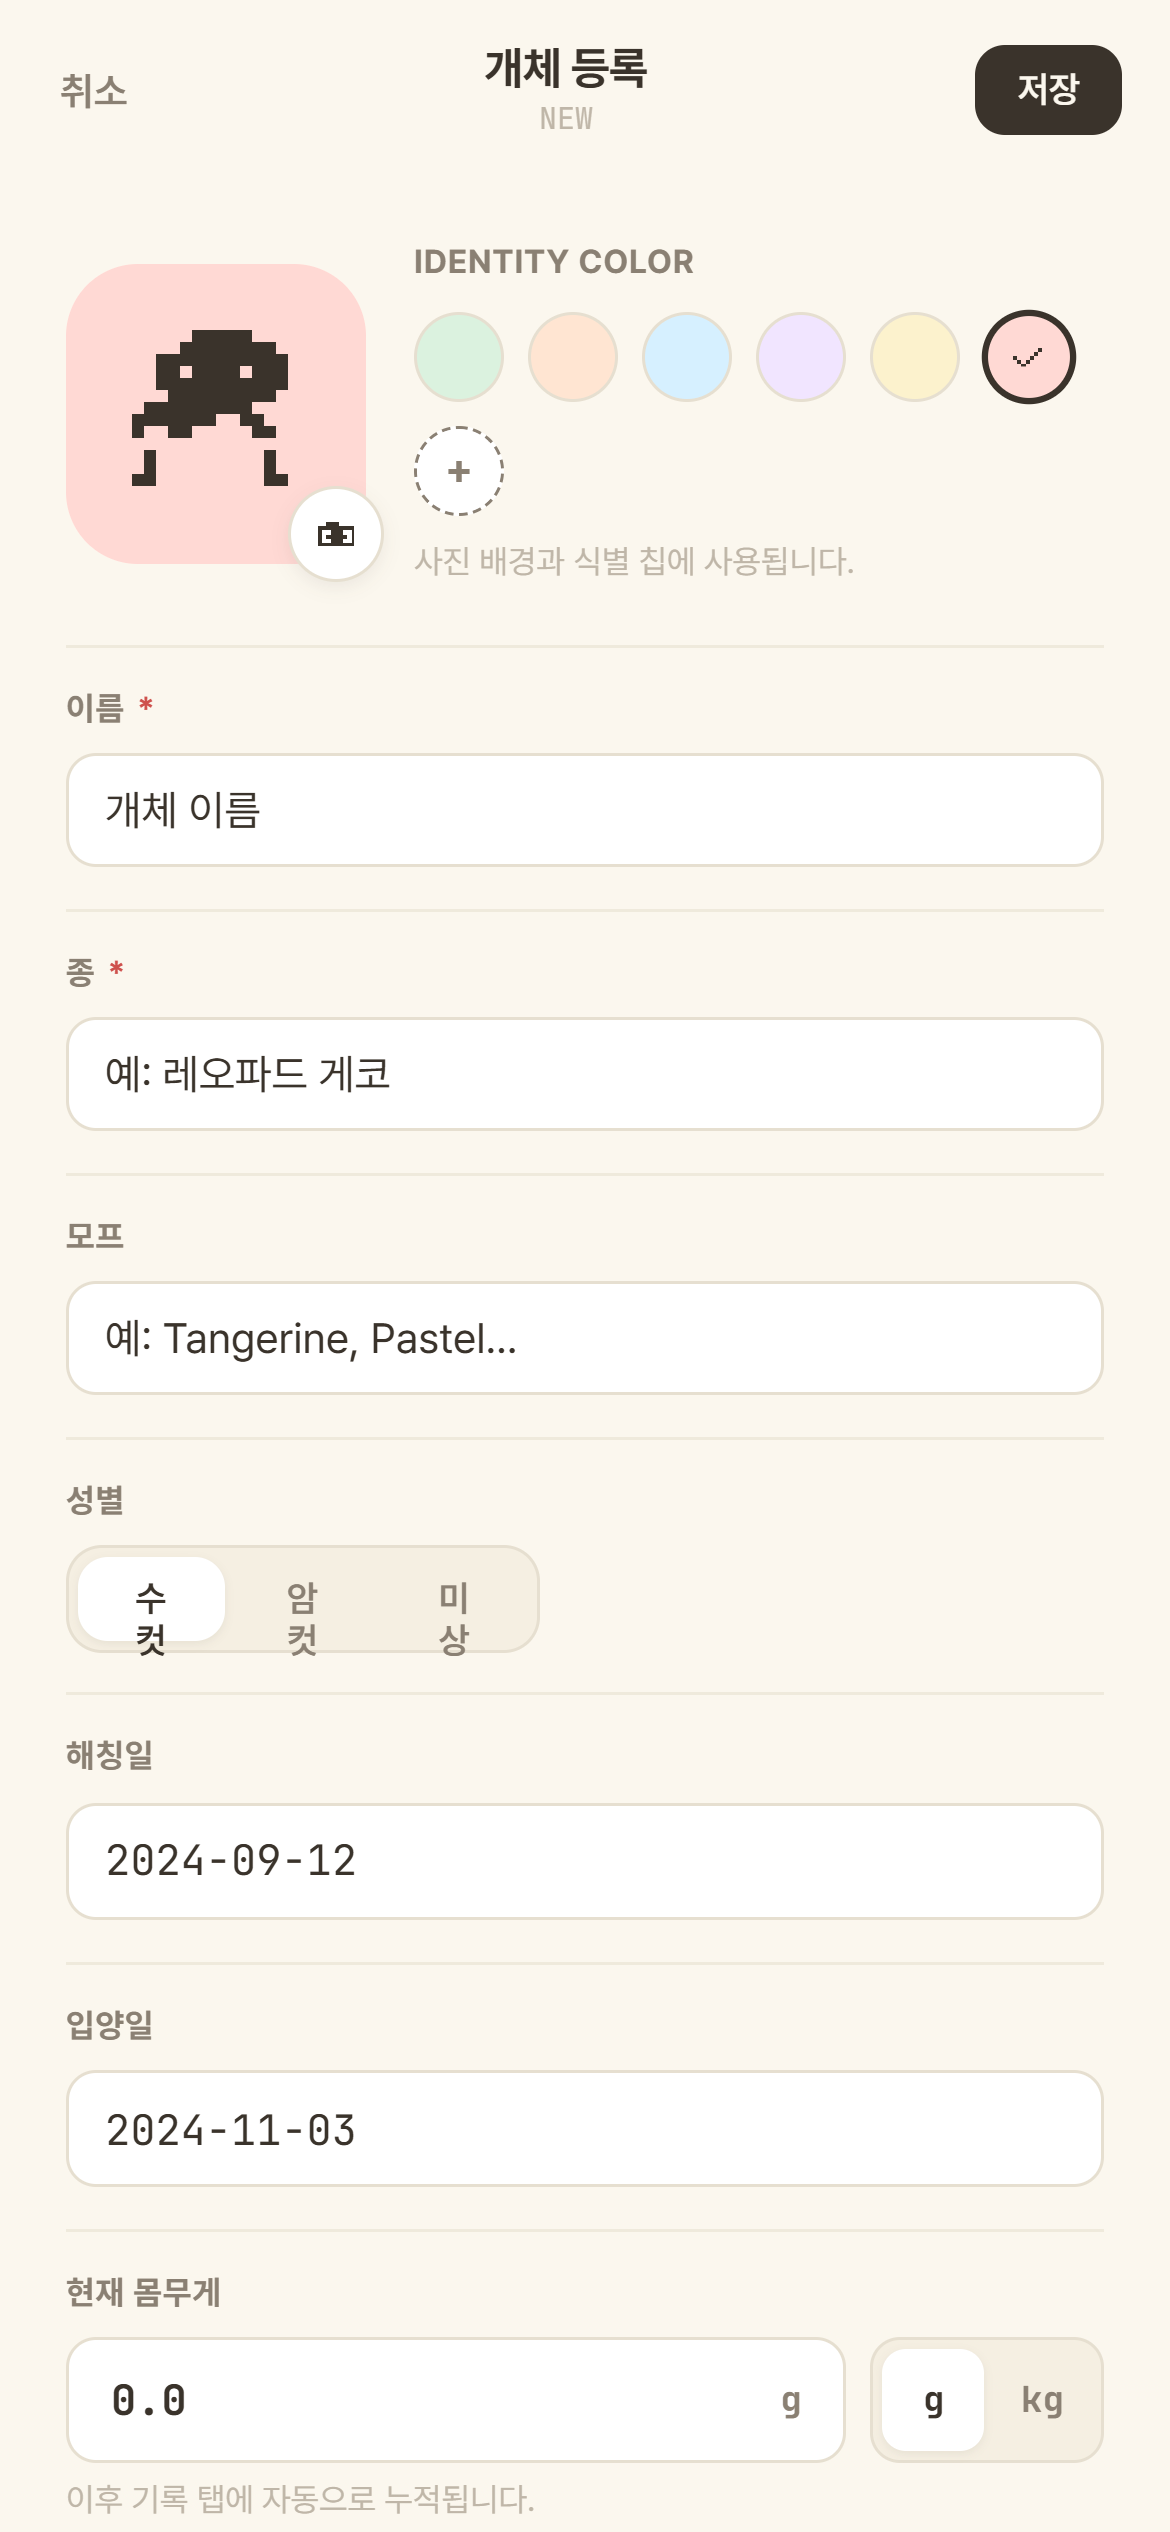
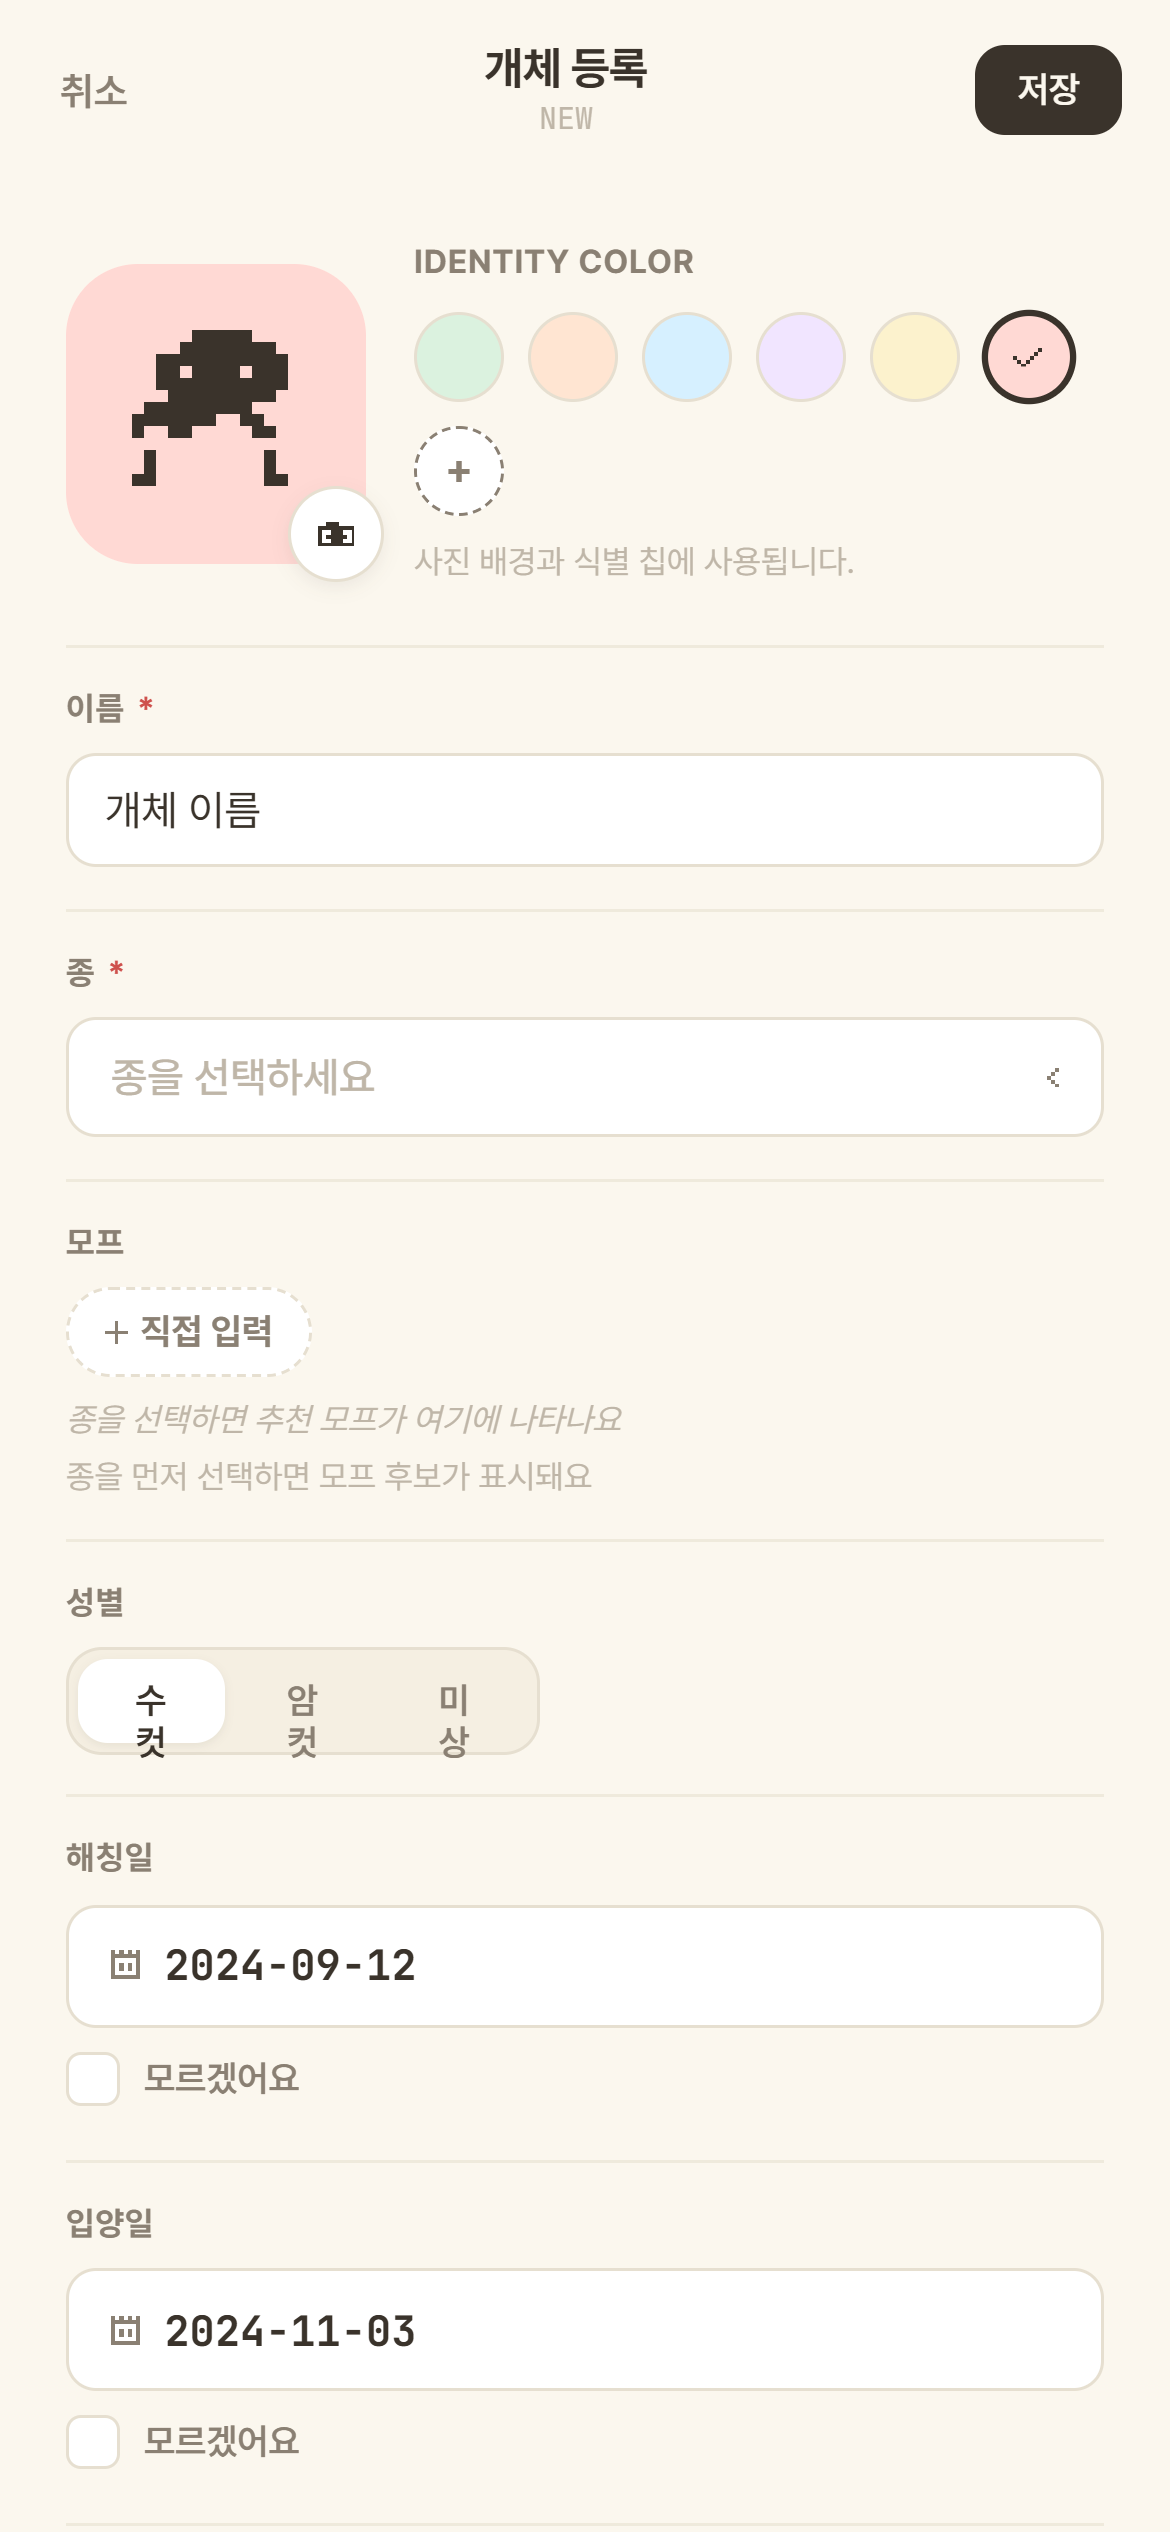
chore: 미커밋 변경사항 일괄 반영
- UI/03.png, 03b.png, 03c.png, 03d.png: UI 레퍼런스 이미지 추가
- UI/reference.md: UI 명세 업데이트
- V15__memo_restructure.sql: sync 컬럼 중복 추가 제거 수정본
- PhotoController.java: setProfile 중복 엔드포인트 제거
- application-local.yml: HTTP 요청 로그 설정 추가
- signup_screen.dart: 에러 메시지 한국어 처리

diff --git a/bitpet_app/lib/features/auth/presentation/signup_screen.dart b/bitpet_app/lib/features/auth/presentation/signup_screen.dart
@@ -74,7 +74,7 @@ class _SignupScreenState extends ConsumerState<SignupScreen> {
     );
     if (!mounted) return;
     ref.read(authStateProvider).whenOrNull(
-      error: (e, _) => ToastMessage.show(context, '에러입니다', type: ToastType.error),
+      error: (e, _) => ToastMessage.show(context, e.toString(), type: ToastType.error),
     );
   }
 

diff --git a/bitpet_server/src/main/java/io/bitpet/photo/controller/PhotoController.java b/bitpet_server/src/main/java/io/bitpet/photo/controller/PhotoController.java
@@ -72,12 +72,4 @@ public class PhotoController {
         return ApiResponse.ok();
     }
 
-    @Operation(summary = "개체 프로필 사진 설정 (PET 한정)")
-    @PatchMapping("/api/v1/pets/{petId}/photos/{photoId}/profile")
-    public ApiResponse<PhotoResponse> setProfile(
-            @AuthenticationPrincipal AuthPrincipal principal,
-            @PathVariable Long petId,
-            @PathVariable Long photoId) {
-        return ApiResponse.ok(photoService.setProfilePhoto(principal.userId(), petId, photoId));
-    }
 }

diff --git a/UI/reference.md b/UI/reference.md
@@ -60,3 +60,85 @@
 * 홈 화면 루틴 카드에서 넘어온 경우 뒤로 버튼과 닫기 버튼은 생략. FAB 버튼을 통해 넘어온 경우 뒤로 버튼(개체선택으로 되돌아감.  완료 및 저장된 개체를 선택 해제할 경우 해당 내용 초기화)
 * 닫기 버튼
 
+---
+
+# 2026-05-27 UI가이드
+
+## 1. 개체 등록 메인 화면 (03.png, 03b.png)
+
+새로운 개체를 시스템에 등록하기 위한 입력 폼 화면입니다. 전체적으로 따뜻한 아이보리, 샌드톤 배경에 둥근 모서리의 입력 필드들이 배치되어 있습니다.
+
+* **상단 헤더:**
+* 좌측에 취소 버튼: 클릭시 저장 안되고 뒤로가기, 중앙에 **'개체 등록 (NEW)'** 타이틀, 우측에 어두운 브라운 색상의 **'저장'** 버튼이 있습니다. 저장버튼 클릭 시 개체 정보 DB에 저장. 디바이스 자체 저장소에도 동시에 저장됨.
+
+* **프로필 사진 및 아이덴티티 컬러 설정:**
+* **프로필 이미지:** 핑크색 사각형 배경에 픽셀 아트 형태의 도마뱀(혹은 외계인 형태의 캐릭터) 아이콘이 기본 적용되어 있으며, 우측 하단에 카메라 모양의 플로팅 버튼 클릭 시 사진 선택 가능
+* **IDENTITY COLOR:** 민트, 연주황, 연하늘, 연보라, 연노랑, 인디핑크색의 원형 칩이 나열되어 있으며 현재 인디핑크 색상이 선택(체크 표시)되어 있습니다. 우측의 `+` 버튼은 생략. 하단에 "사진 배경과 식별 칩에 사용됩니다."라는 안내 문구가 있습니다.
+
+
+* **입력 필드 레이아웃:**
+* **이름 *** (필수): '개체 이름'을 입력할 수 있는 텍스트 필드입니다.
+* **종 *** (필수): '종을 선택하세요'라는 안내와 함께 우측에 드롭다운/바텀시트 호출을 암시하는 화살표 아이콘이 있습니다. (03c화면으로 연결되는 지점)
+* **모프:** 직접 입력할 수 있는 버튼(`+ 직접 입력`)이 있으며, 하단에 "종을 선택하면 추천 모프가 여기에 나타나요", "종을 먼저 선택하면 모프 후보가 표시돼요"라는 안내 문구가 비활성화 톤으로 적혀 있습니다.
+* **성별:** '수컷', '암컷', '미상'의 3단 토글 스위치 형태이며, 현재 '수컷'이 선택되어 배경이 하얗게 강조되어 있습니다.
+* **해칭일 (부화일):** 달력 아이콘과 함께 날짜를 선택할 수 있는 입력창이 있으며, 아래에 '모르겠어요' 체크박스가 있습니다.
+* **입양일:** 달력 아이콘과 함께 날짜를 선택할 수 있는 입력창이 있으며, 아래에 '모르겠어요' 체크박스가 있습니다.
+네, 이전 '개체 등록' 메인 화면에서 아래로 스크롤했을 때 나타나는 나머지 하단 입력 폼 화면이군요! 첫 번째 설명과 일치하는 톤과 구조로, 개발 및 UI 분석에 용이하도록 명확하게 풀어 설명해 드릴게요.
+* **현재 몸무게 입력 필드:**
+* 수치를 입력하는 텍스트 필드와 단위 선택 토글이 분리되어 있습니다.
+* **입력창:** 현재 `0.0`이 입력되어 있으며, 우측에 기본 단위인 `g` 표시가 흐리게 붙어 있습니다.
+* **단위 토글:** 우측에 `g`와 `kg`을 선택할 수 있는 2단 토글 버튼이 있으며, 현재 'g'가 선택되어 배경이 하얗게 강조되어 있습니다.
+* 하단에 "이후 기록 탭에 자동으로 누적됩니다."라는 안내 문구가 있어, 여기서 입력한 첫 몸무게가 개체의 성장 기록 히스토리에 첫 데이터로 쌓임을 암시합니다.
+
+
+* **부모 개체 연동 필드:**
+* 개체의 혈통(라인) 관리를 위해 부개체와 모개체를 각각 검색하여 연결할 수 있는 카드 형태의 버튼 영역입니다. 하단에는 "일련번호로 등록된 개체를 검색해 연결할 수 있어요."라는 안내가 있습니다.
+* **부 (수컷):** 남성 기호(♂) 아이콘이 든 주황빛 도는 베이지색 칩과 함께 "일련번호로 검색해 추가"라는 가이드 문구, 우측에 돋보기 아이콘이 배치되어 있습니다. (이 버튼을 누르면 이전 질문의 두 번째 화면인 '부개체 선택 바텀시트'가 열립니다.)
+* **모 (암컷):** 여성 기호(♀) 아이콘이 든 연회색 칩과 함께 "일련번호로 검색해 추가"라는 가이드 문구, 우측에 돋보기 아이콘이 배치되어 있습니다.
+
+
+* **메모 입력 필드:**
+* 개체에 대한 특이사항을 자유롭게 적을 수 있는 넓은 멀티라인 텍스트 영역(Text Area)입니다.
+* 필드 하단에는 "사육환경·병원 기록·관찰 등 자유롭게 작성하세요."라는 보조 안내 문구가 배치되어 있습니다.
+
+
+---
+
+## 2. 부모 개체 선택 바텀시트 (03d.png)
+
+등록하려는 개체의 부개체 및 모개체를 기존에 등록된 데이터 중에서 검색하고 연결하는 바텀시트(Bottom Sheet) 모달 화면입니다.
+
+* **상단 타이틀:**
+* **'SELECT PARENT / 부 (♂) 개체 선택'** 문구가 상단에 크게 배치되어 있으며, 그 아래에 "일련번호 BP-YYYY-NNN 또는 이름·종으로 검색할 수 있어요"라는 검색 팁이 제공됩니다.
+
+
+* **검색창:**
+* 돋보기 아이콘과 함께 기본 접두어인 `BP-`가 입력되어 있어 일련번호 기반 검색을 유도하는 텍스트 필드가 있습니다.
+
+
+* **개체 리스트 ("등록된 수컷 개체 3마리"):**
+* 현재 시스템에 등록된 수컷 개체 목록이 카드 형태로 나열되어 있습니다. 각 카드에는 픽셀 프로필 이미지, 이름, 성별 기호(♂), 일련번호, 종 및 모프 정보가 포함되어 있습니다.
+
+
+* **하단 버튼 바:**
+* 좌측에 흰색 **'취소'** 버튼, 우측에 넓은 영역을 차지하는 **'연결'** 버튼(현재는 개체가 선택되지 않아 비활성화된 연한 베이지색 상태)이 배치되어 있습니다.
+
+
+
+---
+
+## 3. 종 선택 바텀시트 (`03c.png`)
+
+메인 화면에서 '종 *' 필드를 클릭했을 때 나타나는 바텀시트 화면으로, 다단계 카테고리 분류를 통해 개체의 구체적인 종(Species)을 선택하는 화면입니다.
+
+* **상단 타이틀 및 검색:**
+* **'SELECT SPECIES / 종 선택'** 타이틀과 "카테고리에서 선택하거나 직접 검색하세요"라는 안내 문구가 있습니다.
+* 그 아래로 '종 이름 검색...'이 가능한 돋보기 아이콘 포함 검색창이 있습니다.
+
+
+* **2단 분할 레이아웃 (카테고리 & 상세 리스트):**
+* **좌측 (대분류 대동물군 세로 탭):** 파충류 및 양서류의 대분류가 나열되어 있습니다. 목록은 `게코`, `도마뱀`, `뱀`, `🐢 거북`, `🐸 양서류`, `👾 기타` 순이며, 현재 **'게코'** 탭이 선택되어 배경이 약간 더 밝고 폰트가 강조되어 있습니다.
+* **우측 (상세 종 목록):** 좌측에서 선택한 '게코' 카테고리에 속하는 세부 종 리스트가 세로로 나열됩니다.
+
+* **하단 버튼 바:**
+* 좌측에 흰색 **'취소'** 버튼, 우측에 어두운 브라운 색상의 완료 버튼이 있어, 현재 어떤 종이 선택되었는지 직관적으로 보여주며 마무리를 유도합니다.